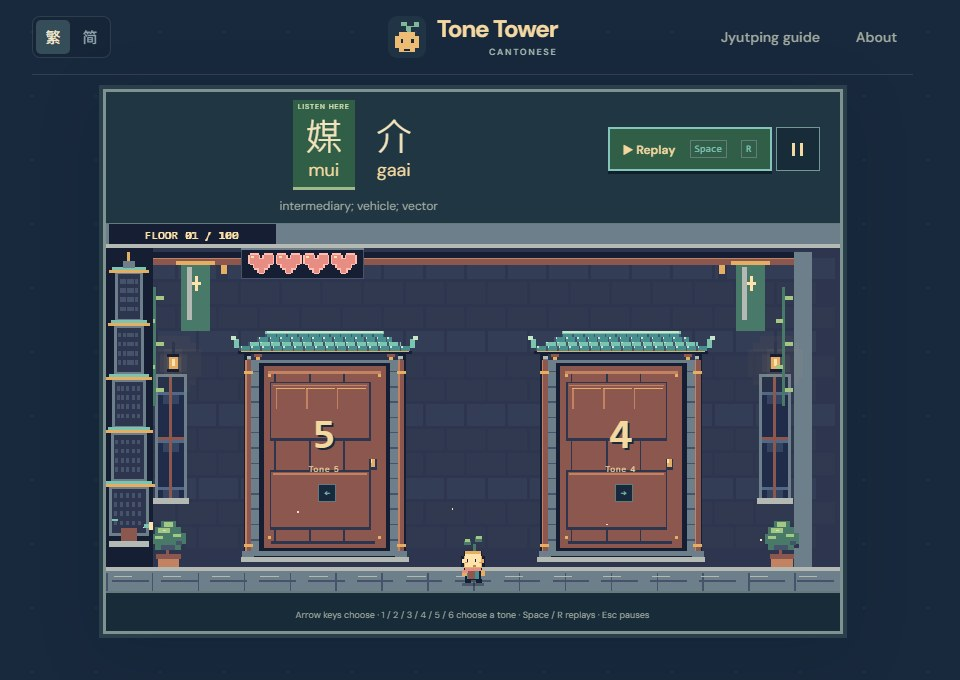
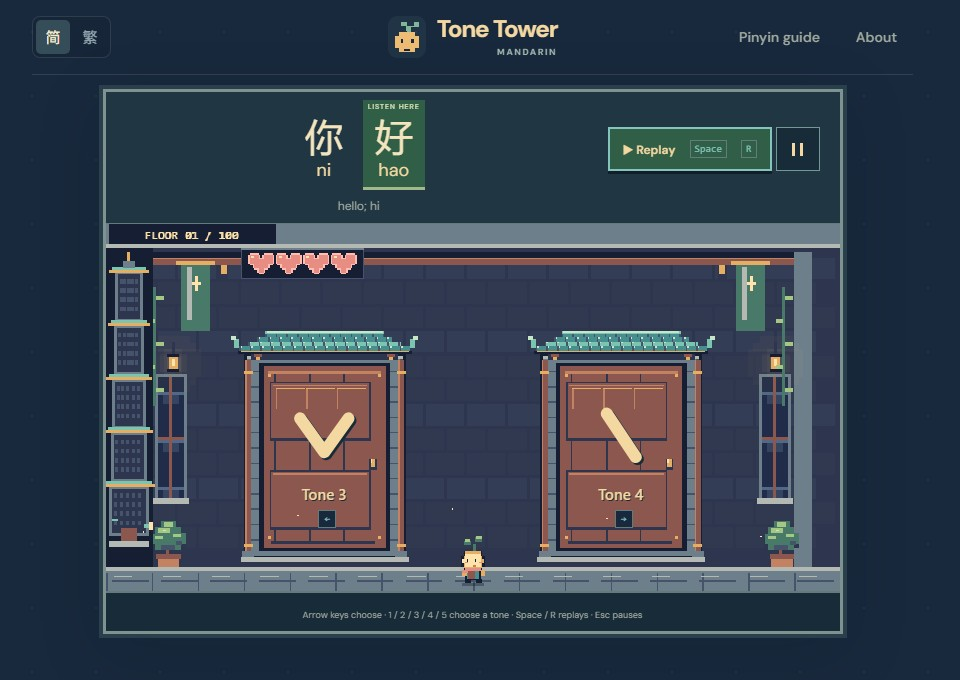
Show Mandarin gameplay in the Tone Tower share preview (#9)
* Show Mandarin gameplay in the Tone Tower share preview

* Embed gameplay in the standalone share-card SVG

diff --git a/index.html b/index.html
@@ -7,7 +7,7 @@
     <meta name="theme-color" content="#19293d" />
     <meta
       name="description"
-      content="Free browser games for tones and spelling. Practise Cantonese Jyutping, Mandarin Pinyin and Vietnamese tones."
+      content="Listen for tones in Cantonese, Mandarin and Vietnamese. Practise Jyutping or Pinyin spelling in Skyrail."
     />
     <title>Tone Tower · Choose a language</title>
     <link rel="canonical" href="https://tone-tower.github.io/tone-tower/" />
@@ -20,7 +20,7 @@
     <meta property="og:title" content="Tone Tower · Listening games" />
     <meta
       property="og:description"
-      content="Free browser games for tones and spelling. Practise Cantonese Jyutping, Mandarin Pinyin and Vietnamese tones."
+      content="Listen for tones in Cantonese, Mandarin and Vietnamese. Practise Jyutping or Pinyin spelling in Skyrail."
     />
     <meta property="og:url" content="https://tone-tower.github.io/tone-tower/" />
     <meta
@@ -31,13 +31,13 @@
     <meta property="og:image:height" content="630" />
     <meta
       property="og:image:alt"
-      content="An illustrated tower and railway beside the words Tone Tower, listening games for tones and spelling."
+      content="Tone Tower for Cantonese, Mandarin and Vietnamese, showing a Mandarin round with 你好 (hello)."
     />
     <meta name="twitter:card" content="summary_large_image" />
     <meta name="twitter:title" content="Tone Tower · Listening games" />
     <meta
       name="twitter:description"
-      content="Free browser games for tones and spelling. Practise Cantonese Jyutping, Mandarin Pinyin and Vietnamese tones."
+      content="Listen for tones in Cantonese, Mandarin and Vietnamese. Practise Jyutping or Pinyin spelling in Skyrail."
     />
     <meta
       name="twitter:image"
@@ -45,7 +45,7 @@
     />
     <meta
       name="twitter:image:alt"
-      content="An illustrated tower and railway beside the words Tone Tower, listening games for tones and spelling."
+      content="Tone Tower for Cantonese, Mandarin and Vietnamese, showing a Mandarin round with 你好 (hello)."
     />
     <link rel="stylesheet" href="src/styles/style.css" />
     <link rel="stylesheet" href="src/styles/worlds.css" />

diff --git a/README.md b/README.md
@@ -1,12 +1,12 @@
 # Tone Tower
 
-Free browser games for practising tones and spelling. No account needed.
+Listening games for Cantonese, Mandarin and Vietnamese. No account needed.
 
 **[Play in your browser](https://tone-tower.github.io/tone-tower/)**
 
 [Cantonese](https://tone-tower.github.io/tone-tower/cantonese/) · [Mandarin](https://tone-tower.github.io/tone-tower/mandarin/) · [Vietnamese](https://tone-tower.github.io/tone-tower/vietnamese/)
 
-[![A Cantonese Tone Tower round showing a word prompt and numbered tone doors](docs/images/tone-tower-gameplay.jpg)](https://tone-tower.github.io/tone-tower/)
+[![A Mandarin Tone Tower round with 你好 and two Pinyin tone doors](docs/images/tone-tower-gameplay.jpg)](https://tone-tower.github.io/tone-tower/)
 
 In **Tone Tower**, listen to a word and choose its tone to climb the tower. In **Skyrail**, type what you hear in Cantonese Jyutping or Mandarin Pinyin. Vietnamese has its own Tone Tower adventure.
 

diff --git a/docs/PUBLISHING.md b/docs/PUBLISHING.md
@@ -147,7 +147,7 @@ Social services may cache old previews after deployment.
 ```markdown
 # Tone Tower
 
-Free browser games for practising tones and spelling.
+Listening games for Cantonese, Mandarin and Vietnamese.
 
 **[Play in your browser](https://tone-tower.github.io/tone-tower/)**
 
